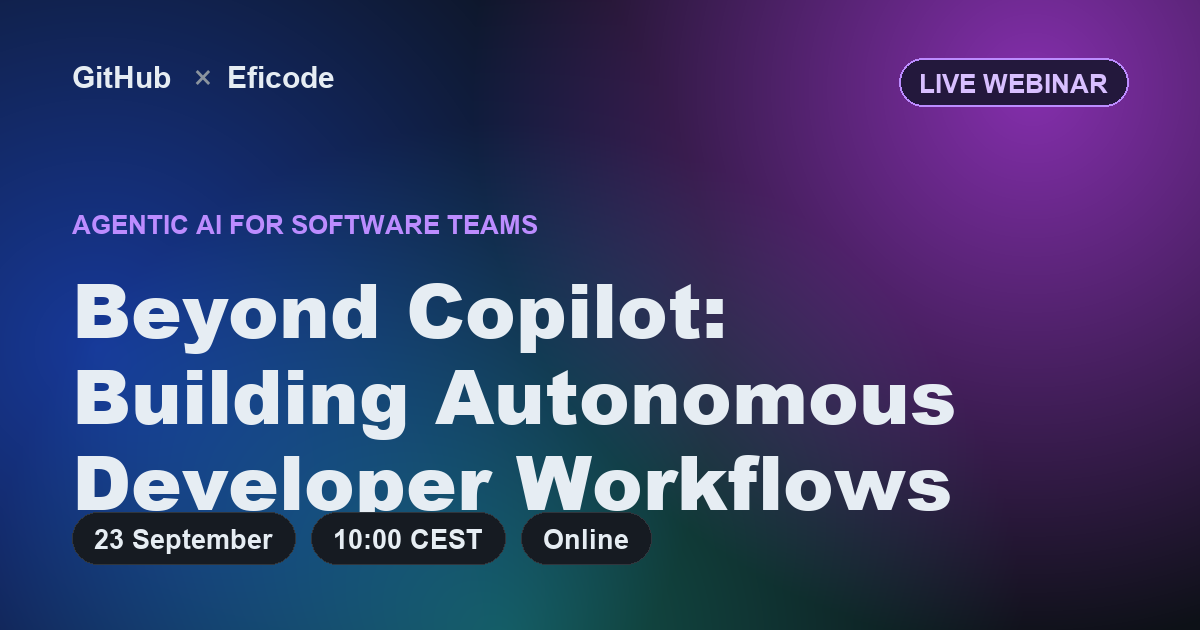
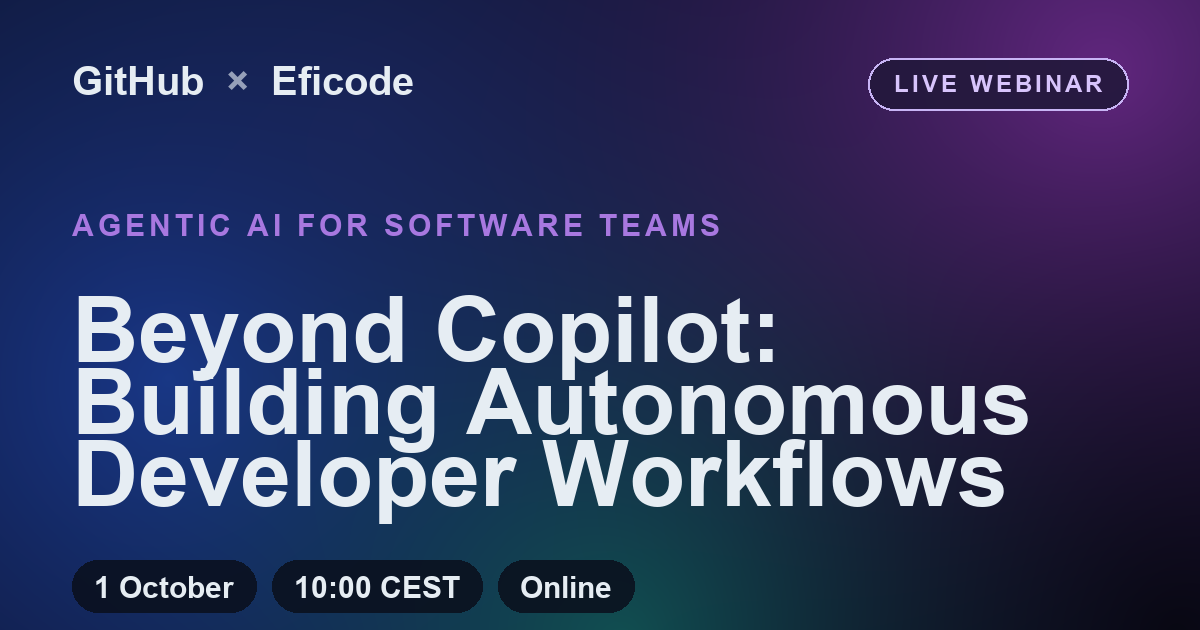
Move webinar date to Thursday 1 October 2026 (10:00 CEST)
Update all date references across landing page, confirmation email
(HTML + text), .ics calendar file, OG share image, worker, and docs.
Teams meeting is unchanged (same rescheduled meeting), so join link,
meeting ID, and passcode stay the same. Bumped .ics SEQUENCE to 1 so
calendar clients treat it as a reschedule rather than a duplicate.

diff --git a/index.html b/index.html
@@ -4,13 +4,13 @@
   <meta charset="utf-8" />
   <meta name="viewport" content="width=device-width, initial-scale=1" />
   <title>Beyond Copilot: Building Autonomous Developer Workflows — Live Webinar</title>
-  <meta name="description" content="A live webinar by GitHub and Eficode. Move from AI-assisted coding to AI-powered software delivery: build, evaluate, govern, and scale developer workflows powered by intelligent agents. 23 September, 10:00 CEST." />
+  <meta name="description" content="A live webinar by GitHub and Eficode. Move from AI-assisted coding to AI-powered software delivery: build, evaluate, govern, and scale developer workflows powered by intelligent agents. 1 October, 10:00 CEST." />
 
   <!-- Open Graph (Teams, Slack, LinkedIn, Facebook) -->
   <meta property="og:type" content="website" />
   <meta property="og:site_name" content="GitHub × Eficode Webinar" />
   <meta property="og:title" content="Beyond Copilot: Building Autonomous Developer Workflows" />
-  <meta property="og:description" content="Live webinar by GitHub and Eficode — 23 September, 10:00 CEST. Learn how to build, evaluate, govern, and scale developer workflows powered by intelligent agents." />
+  <meta property="og:description" content="Live webinar by GitHub and Eficode — 1 October, 10:00 CEST. Learn how to build, evaluate, govern, and scale developer workflows powered by intelligent agents." />
   <meta property="og:url" content="https://amraljarhi.github.io/agentic-ai-webinar/" />
   <meta property="og:image" content="https://amraljarhi.github.io/agentic-ai-webinar/og-image.png?v=2" />
   <meta property="og:image:width" content="1200" />
@@ -20,7 +20,7 @@
   <!-- Twitter / X -->
   <meta name="twitter:card" content="summary_large_image" />
   <meta name="twitter:title" content="Beyond Copilot: Building Autonomous Developer Workflows" />
-  <meta name="twitter:description" content="Live webinar by GitHub × Eficode — 23 Sept, 10:00 CEST. From AI-assisted coding to AI-powered software delivery." />
+  <meta name="twitter:description" content="Live webinar by GitHub × Eficode — 1 Oct, 10:00 CEST. From AI-assisted coding to AI-powered software delivery." />
   <meta name="twitter:image" content="https://amraljarhi.github.io/agentic-ai-webinar/og-image.png?v=2" />
 
   <meta name="theme-color" content="#0d1117" />
@@ -45,7 +45,7 @@
 
   <main class="container">
     <section class="hero">
-      <span class="eyebrow">Live Webinar · 23 Sept · 10:00 CEST</span>
+      <span class="eyebrow">Live Webinar · 1 Oct · 10:00 CEST</span>
       <h1>Beyond Copilot: <span class="grad">Building Autonomous Developer Workflows</span></h1>
       <p class="lede">
         Move from AI-assisted coding to AI-powered software delivery. Join GitHub and Eficode for a
@@ -54,7 +54,7 @@
       </p>
 
       <div class="meta-row">
-        <div class="meta-item"><span class="meta-k">When</span><span class="meta-v">Tue 23 September · 10:00 CEST</span></div>
+        <div class="meta-item"><span class="meta-k">When</span><span class="meta-v">Thu 1 October · 10:00 CEST</span></div>
         <div class="meta-item"><span class="meta-k">Duration</span><span class="meta-v">~70 min incl. live Q&amp;A</span></div>
         <div class="meta-item"><span class="meta-k">Where</span><span class="meta-v">Online — join link emailed on registration</span></div>
         <div class="meta-item"><span class="meta-k">Cost</span><span class="meta-v">Free · Recording sent to registrants</span></div>
@@ -128,7 +128,7 @@
             novalidate>
 
         <!-- Registration relay config (see worker/README.md). Set action= to your Worker URL. -->
-        <input type="hidden" name="Event" value="Beyond Copilot: Building Autonomous Developer Workflows — 23 Sept 10:00 CEST" />
+        <input type="hidden" name="Event" value="Beyond Copilot: Building Autonomous Developer Workflows — 1 Oct 10:00 CEST" />
         <input type="text" name="_gotcha" style="display:none" tabindex="-1" autocomplete="off" />
         <!-- Populated on submit by script.js -->
         <input type="hidden" name="Lead score" id="leadScore" value="" />

diff --git a/worker/worker.js b/worker/worker.js
@@ -107,7 +107,7 @@ const PASSCODE = "dh3D5kB9";
 const DIAL_IN = "+1 323-849-4874,,782105735#";
 const CONF_ID = "782 105 735#";
 const EVENT_TITLE = "Beyond Copilot: Building Autonomous Developer Workflows";
-const EVENT_WHEN = "Tuesday, 23 September 2026 · 10:00–11:10 CEST";
+const EVENT_WHEN = "Thursday, 1 October 2026 · 10:00–11:10 CEST";
 const REG_PAGE = "https://amraljarhi.github.io/agentic-ai-webinar/";
 const ICS_URL = "https://amraljarhi.github.io/agentic-ai-webinar/webinar.ics";
 
@@ -126,7 +126,7 @@ function renderEmailHtml(firstName) {
   const fn = htmlEscape(firstName);
   return `<!DOCTYPE html><html lang="en"><head><meta charset="utf-8"/><meta name="viewport" content="width=device-width, initial-scale=1.0"/></head>
 <body style="margin:0;padding:0;background:#f4f5f7;">
-<div style="display:none;max-height:0;overflow:hidden;opacity:0;color:#f4f5f7;font-size:1px;">You're in. Tue 23 Sep, 10:00 CEST — your Microsoft Teams join link is inside.</div>
+<div style="display:none;max-height:0;overflow:hidden;opacity:0;color:#f4f5f7;font-size:1px;">You're in. Thu 1 Oct, 10:00 CEST — your Microsoft Teams join link is inside.</div>
 <table role="presentation" width="100%" cellpadding="0" cellspacing="0" style="background:#f4f5f7;"><tr><td align="center" style="padding:24px 12px;">
 <table role="presentation" width="600" cellpadding="0" cellspacing="0" style="width:600px;max-width:600px;background:#fff;border-radius:14px;overflow:hidden;border:1px solid #e1e4e8;">
 <tr><td style="background-color:#161029;background-image:linear-gradient(90deg,#0d1117 0%,#1b1030 60%,#2a1a4a 100%);padding:28px 32px;">
@@ -209,7 +209,7 @@ async function sendConfirmationEmail(env, toEmail, fullName) {
   const firstName = firstNameFrom(fullName);
   const html = renderEmailHtml(firstName);
   const text = renderEmailText(firstName);
-  const subject = `You're registered: Beyond Copilot (23 Sep, 10:00 CEST) — your Teams link inside`;
+  const subject = `You're registered: Beyond Copilot (1 Oct, 10:00 CEST) — your Teams link inside`;
 
   // Provider 1: Power Automate flow (Office 365 Outlook).
   // The flow uses the "Draft an email message" action to CREATE A DRAFT in your mailbox

diff --git a/email/confirmation.html b/email/confirmation.html
@@ -14,7 +14,7 @@
 <body style="margin:0; padding:0; background-color:#f4f5f7; -webkit-font-smoothing:antialiased;">
   <!-- preheader (hidden) -->
   <div style="display:none; max-height:0; overflow:hidden; opacity:0; color:#f4f5f7; font-size:1px; line-height:1px;">
-    You're in. Tue 23 Sep, 10:00 CEST — your Microsoft Teams join link is inside.
+    You're in. Thu 1 Oct, 10:00 CEST — your Microsoft Teams join link is inside.
   </div>
 
   <table role="presentation" width="100%" cellpadding="0" cellspacing="0" style="background-color:#f4f5f7;">
@@ -65,7 +65,7 @@
                       </tr>
                       <tr>
                         <td style="font-size:17px; font-weight:bold; color:#0d1117; padding-bottom:14px;">
-                          Tuesday, 23 September 2026 · 10:00–11:10 CEST
+                          Thursday, 1 October 2026 · 10:00–11:10 CEST
                         </td>
                       </tr>
                       <tr>

diff --git a/email/README.md b/email/README.md
@@ -11,7 +11,7 @@ send both as a multipart email (HTML + plain-text fallback):
 ## Subject line
 
 ```
-You're registered: Beyond Copilot (23 Sep, 10:00 CEST) — your Teams link inside
+You're registered: Beyond Copilot (1 Oct, 10:00 CEST) — your Teams link inside
 ```
 
 ## Merge fields to replace before sending
@@ -46,5 +46,5 @@ CSV — it does not send email. Pick one of:
 ## Calendar attachment (optional)
 
 To let recipients one-click add the event, attach an `.ics` for
-2026-09-23 10:00–11:10 Europe/Copenhagen and point `{{calendar_ics_url}}` at it
+2026-10-01 10:00–11:10 Europe/Copenhagen and point `{{calendar_ics_url}}` at it
 (or attach the file directly and delete the "Add to calendar" line).

diff --git a/README.md b/README.md
@@ -4,7 +4,7 @@ A static, **co-branded GitHub × Eficode** landing page that invites people to t
 **registers + qualifies** them as leads for GitHub and Eficode's AI-adoption motion.
 
 - **Event:** Beyond Copilot: Building Autonomous Developer Workflows
-- **When:** Tuesday, 23 September, 10:00 CEST (same as Denmark) · ~70 min incl. live Q&A
+- **When:** Thursday, 1 October, 10:00 CEST (same as Denmark) · ~70 min incl. live Q&A
 - **Format:** Live online webinar
 - **Live path:** `https://amraljarhi.github.io/agentic-ai-webinar/`
 
